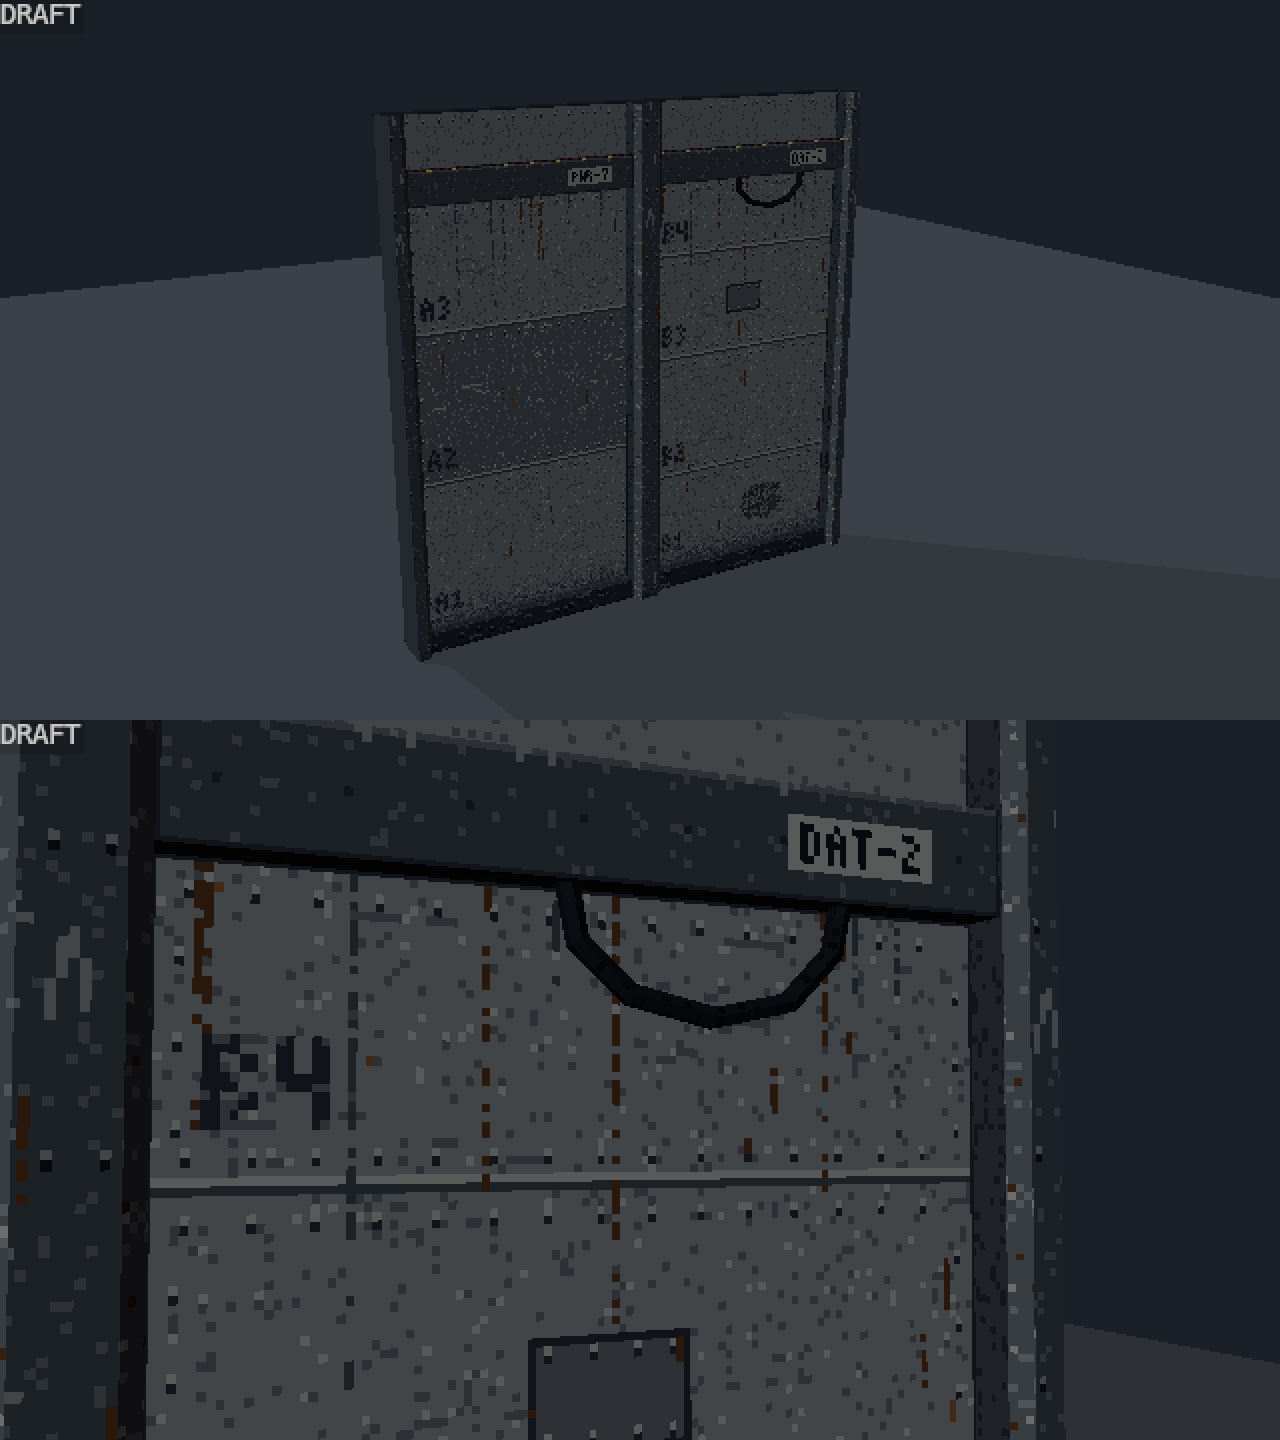
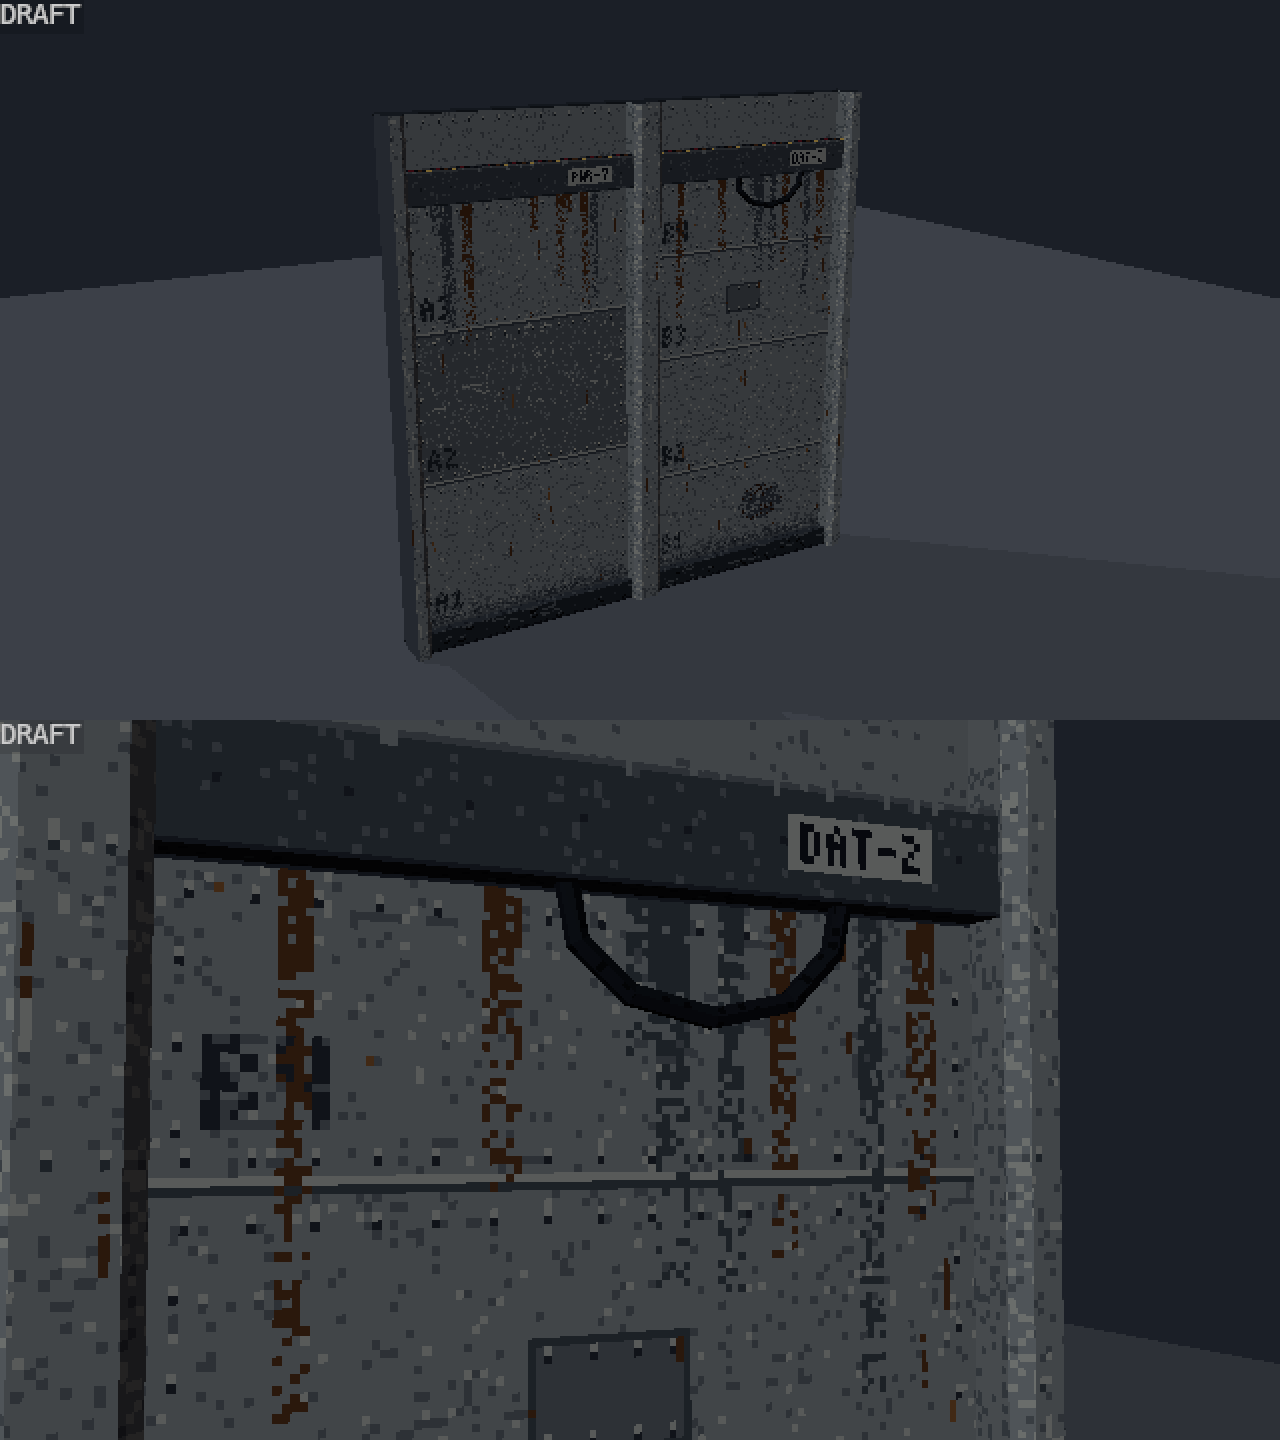
assets(P22): SM_Hangar_Wall_4x4 rework - middle rib light steel, no dark texture column (#17)

diff --git a/docs/ASSET-REQUESTS.md b/docs/ASSET-REQUESTS.md
@@ -1579,7 +1579,7 @@ feedback: []
 path: Assets/_Project/Art/Models/Hangar/SM_Hangar_Wall_4x4.fbx
 package: P22
 scene: Hangar
-status: rework
+status: Vorschau
 priority: P1
 needed_by: 2026-11-09
 size_m: [4.0, 0.3, 4.0]
